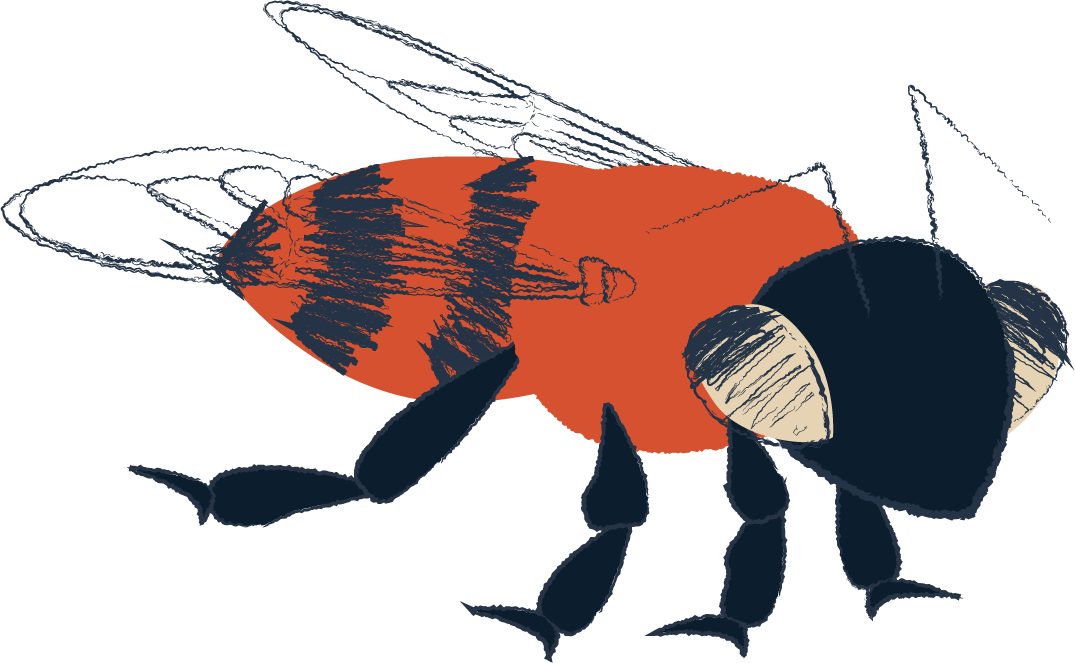
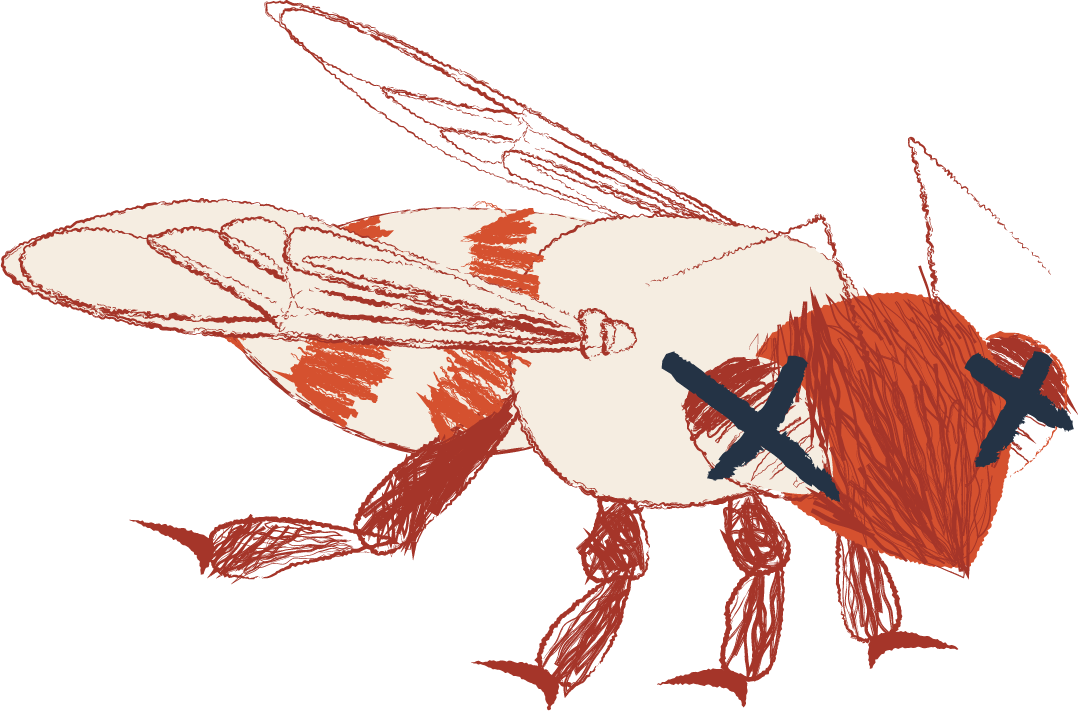
Illustration updated + beginnings of ctas

diff --git a/index.html b/index.html
@@ -161,6 +161,22 @@ Understand your local ecosystems and what actions you can take in your community
     </div>
 
       </section>
+      <section class="intro">
+            <p>
+        At the end of the day, this can all feel very overwhelming and paralyzing. But the great thing about a deadline is being able to work towards it. There are many things you and your community can do personally to combat irreversible planetary disaster.</p>
+        <div class="cta">
+          <div class="ctaitem">
+            <h2>call to action 1</h2>
+          </div>
+          <div class="ctaitem">
+            <h2>call to action 2</h2>
+          </div>
+          <div class="ctaitem">
+            <h2>call to action 3</h2>
+          </div>
+        </div>
+      </section>
+
 
 
   <script src="./assets/js/app.js"></script>

diff --git a/styles.css b/styles.css
@@ -128,3 +128,20 @@ border-spacing: 2px;
 padding-left:1vw;
 margin-left:2vw;
 }
+
+.cta{
+  display: grid;
+  grid-template-columns: auto auto auto;
+  padding-top:3vw;
+}
+
+.ctaitem{
+    text-align: left;
+    background-color: white;
+    text-align: left;
+    margin-right: 2vw;
+}
+
+.ctaitem:hover{
+  background-color: black;
+}
